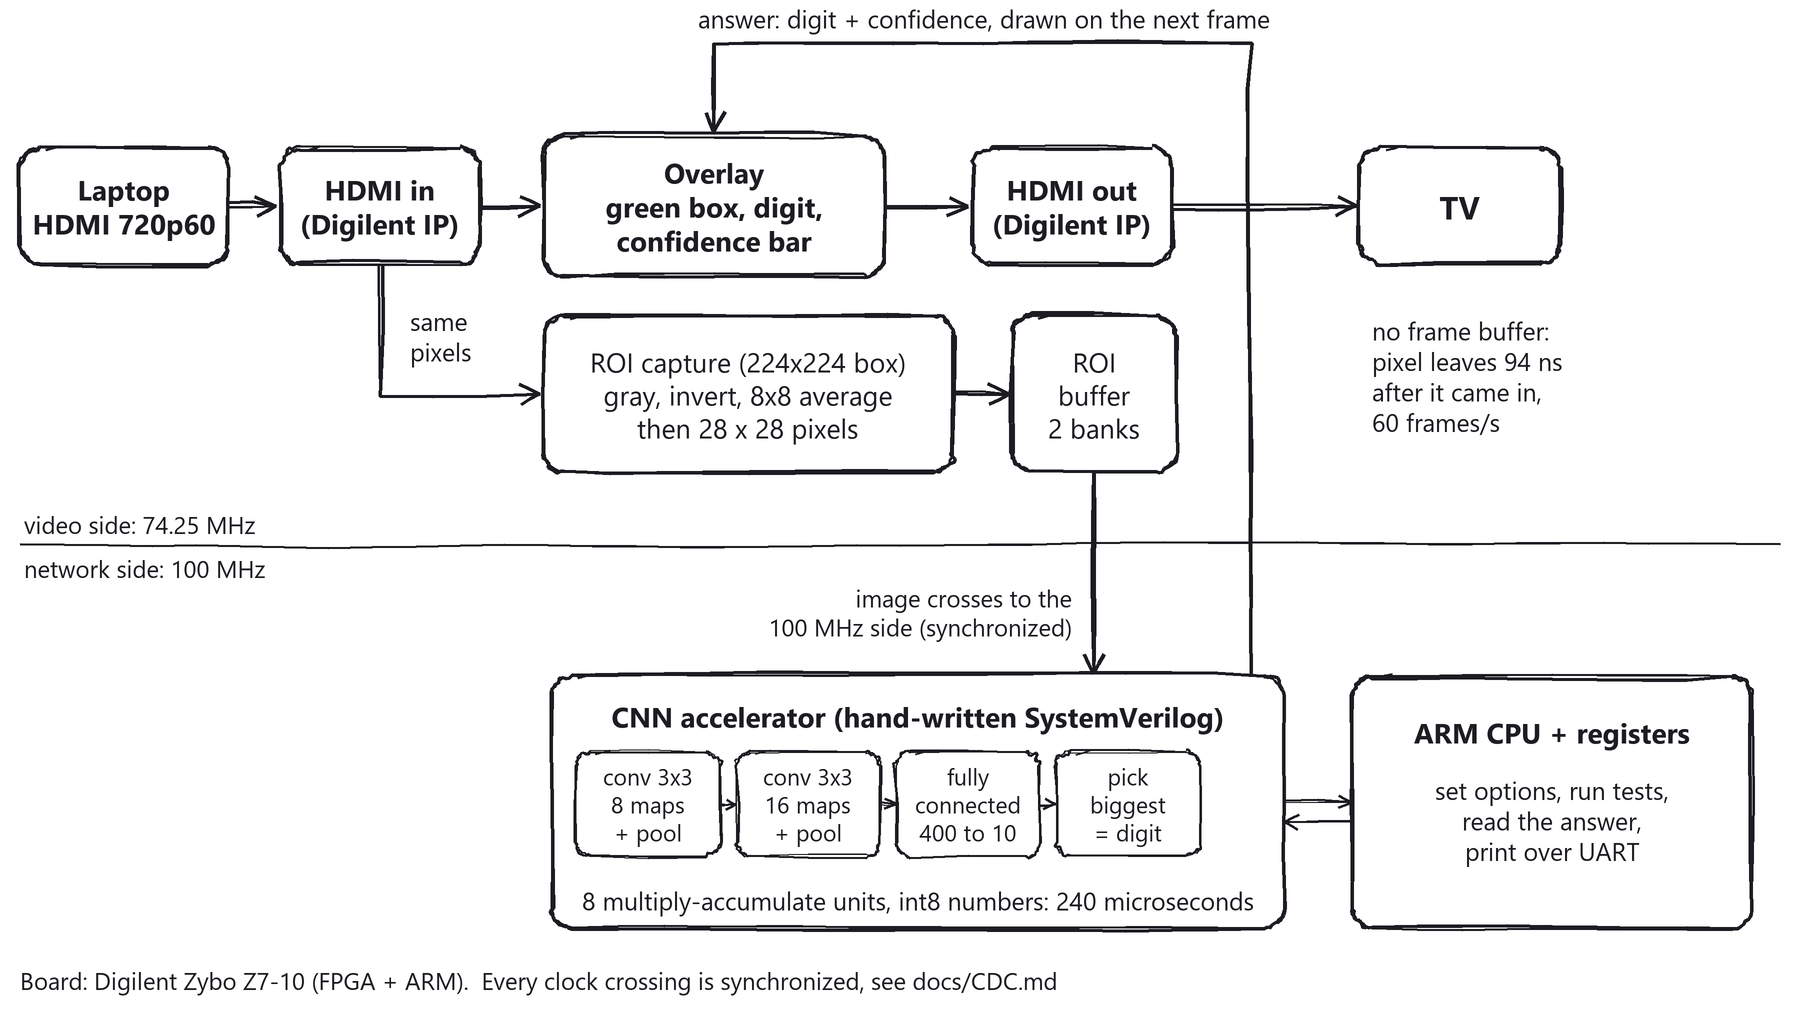
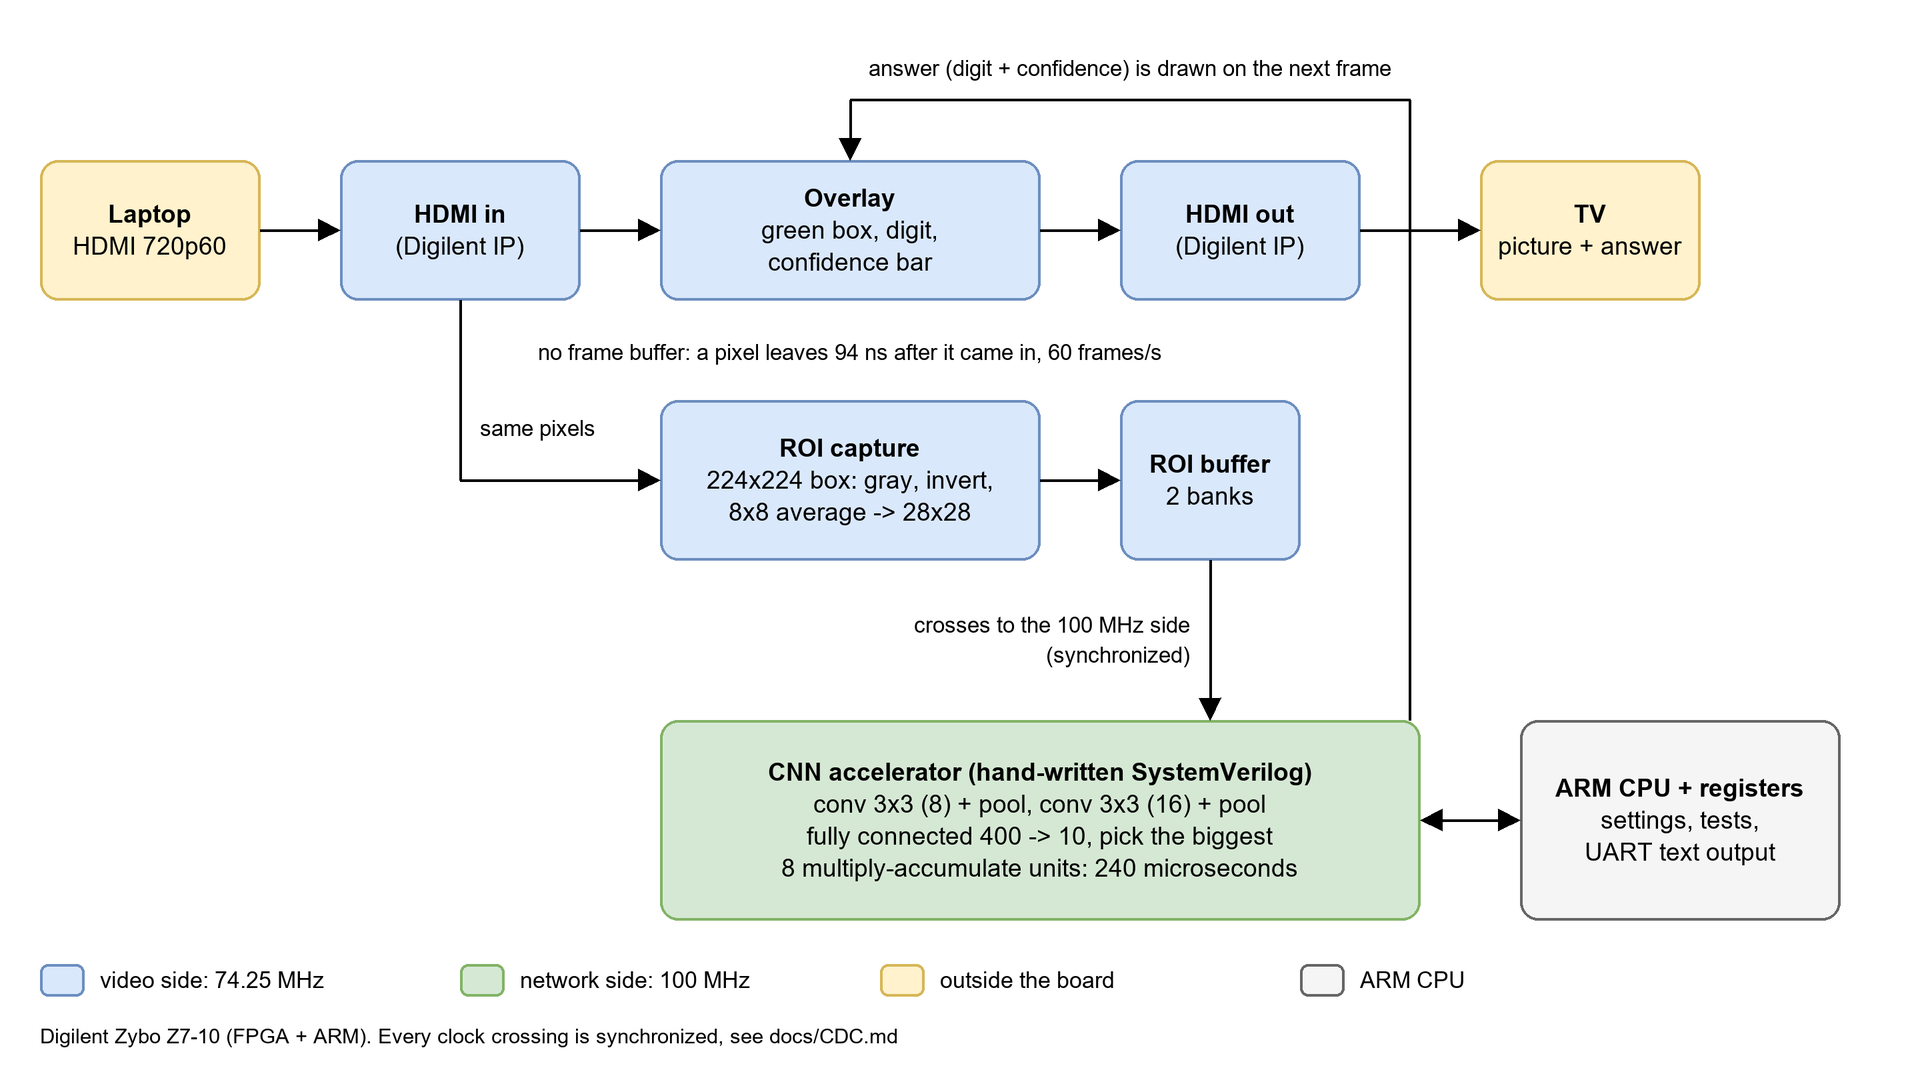
Architecture diagram in diagrams.net style (editable .drawio + PNG from the same shapes)

diff --git a/scripts/make_diagram.py b/scripts/make_diagram.py
@@ -1,179 +1,180 @@
 # =============================================================================
 # File   : make_diagram.py
 # Project: Real-Time Edge AI Video Processor on FPGA
-# Purpose: Draw docs/images/architecture.png in a hand-drawn pen style: slightly wobbly
-#          lines, retraced boxes, handwriting font, margin notes. Black ink on white.
-#          (A PNG, so it looks the same everywhere; an SVG would depend on the viewer's fonts.)
+# Purpose: Make the architecture diagram in the standard diagrams.net (draw.io) look:
+#            docs/images/architecture.drawio   editable file (open it at app.diagrams.net)
+#            docs/images/architecture.png      picture for the README, drawn from the SAME shapes
+#          Both come from one list of boxes and arrows below, so they always match.
 #
 # Usage  : .venv\Scripts\python.exe scripts/make_diagram.py
-# Needs  : Pillow, and the Windows font "Ink Free" (C:\Windows\Fonts\Inkfree.ttf)
+# Needs  : Pillow, Windows fonts Arial (arial.ttf, arialbd.ttf)
 # =============================================================================
-import math
+import html
 import os
-import random
 
 from PIL import Image, ImageDraw, ImageFont
 
 ROOT = os.path.abspath(os.path.join(os.path.dirname(os.path.abspath(__file__)), ".."))
-OUT = os.path.join(ROOT, "docs", "images", "architecture.png")
-FONT = r"C:\Windows\Fonts\segoeui.ttf"       # plain typed font; the LINES are hand-drawn, the TEXT is not
-FONT_BOLD = r"C:\Windows\Fonts\segoeuib.ttf"
+OUT_PNG = os.path.join(ROOT, "docs", "images", "architecture.png")
+OUT_XML = os.path.join(ROOT, "docs", "images", "architecture.drawio")
+FONT = r"C:\Windows\Fonts\arial.ttf"
+FONT_B = r"C:\Windows\Fonts\arialbd.ttf"
 
-W, H = 900, 506          # logical size
-S = 4                    # drawing scale (supersampling); final image is W*2 x H*2
-INK = (28, 28, 34, 255)
-random.seed(7)           # same drawing every run
+W, H = 960, 540
 
-img = Image.new("RGBA", (W * S, H * S), (255, 255, 255, 255))
-d = ImageDraw.Draw(img)
+# diagrams.net default colors: (fill, stroke)
+BLUE = ("#dae8fc", "#6c8ebf")      # video side, 74.25 MHz
+GREEN = ("#d5e8d4", "#82b366")     # network side, 100 MHz
+YELLOW = ("#fff2cc", "#d6b656")    # outside the board
+GRAY = ("#f5f5f5", "#666666")      # ARM CPU
 
+# id: (x, y, w, h, [(line, bold), ...], colors)
+NODES = {
+    "laptop": (20, 80, 110, 70, [("Laptop", True), ("HDMI 720p60", False)], YELLOW),
+    "hdmiin": (170, 80, 120, 70, [("HDMI in", True), ("(Digilent IP)", False)], BLUE),
+    "overlay": (330, 80, 190, 70, [("Overlay", True), ("green box, digit,", False), ("confidence bar", False)], BLUE),
+    "hdmiout": (560, 80, 120, 70, [("HDMI out", True), ("(Digilent IP)", False)], BLUE),
+    "tv": (740, 80, 110, 70, [("TV", True), ("picture + answer", False)], YELLOW),
+    "roi": (330, 200, 190, 80, [("ROI capture", True), ("224x224 box: gray, invert,", False), ("8x8 average -> 28x28", False)], BLUE),
+    "buf": (560, 200, 90, 80, [("ROI buffer", True), ("2 banks", False)], BLUE),
+    "cnn": (330, 360, 380, 100, [("CNN accelerator (hand-written SystemVerilog)", True),
+                                 ("conv 3x3 (8) + pool, conv 3x3 (16) + pool", False),
+                                 ("fully connected 400 -> 10, pick the biggest", False),
+                                 ("8 multiply-accumulate units: 240 microseconds", False)], GREEN),
+    "arm": (760, 360, 160, 100, [("ARM CPU + registers", True), ("settings, tests,", False), ("UART text output", False)], GRAY),
+}
 
-def font(size, bold=False):
-    return ImageFont.truetype(FONT_BOLD if bold else FONT, int(size * S))
+# edges: id, source, target, exit (x, y), entry (x, y), waypoints, both_ends
+EDGES = [
+    ("e1", "laptop", "hdmiin", (1, 0.5), (0, 0.5), [], False),
+    ("e2", "hdmiin", "overlay", (1, 0.5), (0, 0.5), [], False),
+    ("e3", "overlay", "hdmiout", (1, 0.5), (0, 0.5), [], False),
+    ("e4", "hdmiout", "tv", (1, 0.5), (0, 0.5), [], False),
+    ("e5", "hdmiin", "roi", (0.5, 1), (0, 0.5), [(230, 240)], False),
+    ("e6", "roi", "buf", (1, 0.5), (0, 0.5), [], False),
+    ("e7", "buf", "cnn", (0.5, 1), (0.724, 0), [], False),
+    ("e8", "cnn", "arm", (1, 0.5), (0, 0.5), [], True),
+    ("e9", "cnn", "overlay", (0.987, 0), (0.5, 0), [(705, 50), (425, 50)], False),
+]
 
+# free text: id, x, y, text lines, anchor ("l" left, "c" centre, "r" right of x)
+LABELS = [
+    ("t1", 240, 214, ["same pixels"], "l"),
+    ("t2", 595, 320, ["crosses to the 100 MHz side", "(synchronized)"], "r"),
+    ("t3", 565, 34, ["answer (digit + confidence) is drawn on the next frame"], "c"),
+    ("t4", 425, 176, ["no frame buffer: a pixel leaves 94 ns after it came in, 60 frames/s"], "c"),
+    ("t5", 20, 518, ["Digilent Zybo Z7-10 (FPGA + ARM). Every clock crossing is synchronized, see docs/CDC.md"], "l"),
+]
 
-def wobble_path(pts, amp=1.3, step=22):
-    """Subdivide a polyline and push the points sideways a little, like a hand-drawn line."""
-    out = []
-    for (x0, y0), (x1, y1) in zip(pts[:-1], pts[1:]):
-        length = math.hypot(x1 - x0, y1 - y0)
-        n = max(2, int(length / step))
-        nx, ny = (-(y1 - y0) / (length or 1), (x1 - x0) / (length or 1))
-        drift = random.uniform(-amp, amp)
-        for i in range(n):
-            t = i / n
-            drift += random.uniform(-amp, amp) * 0.55
-            drift = max(-2.2 * amp, min(2.2 * amp, drift))
-            out.append((x0 + (x1 - x0) * t + nx * drift, y0 + (y1 - y0) * t + ny * drift))
-    out.append(pts[-1])
-    return out
-
-
-def stroke(pts, width=1.7, amp=1.3, retrace=True):
-    for k in range(2 if retrace else 1):
-        path = wobble_path(pts, amp=amp * (1 if k == 0 else 0.8))
-        d.line([(x * S, y * S) for x, y in path], fill=INK, width=int(width * S * (1 if k == 0 else 0.7)), joint="curve")
-
-
-def rrect_points(x, y, w, h, r):
-    """Corner points of a rounded rectangle as a closed path (arcs as short segments)."""
-    pts = []
-    for cx, cy, a0 in ((x + w - r, y + r, -90), (x + w - r, y + h - r, 0), (x + r, y + h - r, 90), (x + r, y + r, 180)):
-        for i in range(0, 91, 18):
-            a = math.radians(a0 + i)
-            pts.append((cx + r * math.cos(a), cy + r * math.sin(a)))
-    pts.append(pts[0])
-    return pts
-
-
-def box(x, y, w, h, r=10, width=1.8, dashed=False):
-    pts = rrect_points(x, y, w, h, r)
-    if dashed:
-        # walk along the outline: draw 11 px, skip 7 px; each dash is a short wobbly stroke
-        dash, gap = 11.0, 7.0
-        pos, drawing = 0.0, True
-        for (x0, y0), (x1, y1) in zip(pts[:-1], pts[1:]):
-            seg = math.hypot(x1 - x0, y1 - y0)
-            if seg == 0:
-                continue
-            done = 0.0
-            while done < seg:
-                limit = dash if drawing else gap
-                take = min(limit - pos, seg - done)
-                a = (x0 + (x1 - x0) * done / seg, y0 + (y1 - y0) * done / seg)
-                b = (x0 + (x1 - x0) * (done + take) / seg, y0 + (y1 - y0) * (done + take) / seg)
-                if drawing:
-                    stroke([a, b], width=width * 0.8, amp=0.5, retrace=False)
-                done += take
-                pos += take
-                if pos >= limit - 1e-9:
-                    drawing, pos = (not drawing), 0.0
-    else:
-        stroke(pts, width=width, amp=1.0)
-        # pen overshoot at the first corner, like a box closed by hand
-        stroke([(x + r + 3, y + 1.2), (x + r + 10, y - 0.8)], width=width * 0.8, amp=0.3, retrace=False)
+LEGEND = [(BLUE, "video side: 74.25 MHz"), (GREEN, "network side: 100 MHz"),
+          (YELLOW, "outside the board"), (GRAY, "ARM CPU")]
+LEG_X = (20, 230, 440, 650)
+LEG_Y = 482
 
 
-def arrow(pts, width=1.8, head=11):
-    stroke(pts, width=width, amp=1.1)
-    (x0, y0), (x1, y1) = pts[-2], pts[-1]
-    a = math.atan2(y1 - y0, x1 - x0)
-    for sgn in (-1, 1):
-        ang = a + math.pi + sgn * math.radians(26 + random.uniform(-4, 4))
-        ln = head + random.uniform(-1.2, 1.2)
-        stroke([(x1, y1), (x1 + ln * math.cos(ang), y1 + ln * math.sin(ang))], width=width, amp=0.25, retrace=False)
+def edge_points(src, dst, ex, en, via):
+    sx, sy, sw, sh = NODES[src][:4]
+    dx, dy, dw, dh = NODES[dst][:4]
+    p0 = (sx + sw * ex[0], sy + sh * ex[1])
+    p1 = (dx + dw * en[0], dy + dh * en[1])
+    return [p0, *via, p1]
 
 
-def text(x, y, s, size=15, anchor="mm", bold=False):
-    f = font(size, bold)
-    lines = s.split("\n")
-    lh = size * 1.22
-    y0 = y - (len(lines) - 1) * lh / 2
-    for i, line in enumerate(lines):
-        d.text((x * S, (y0 + i * lh) * S), line, font=f, fill=INK, anchor=anchor)
+# ----------------------------------------------------------------------------- PNG
+def make_png():
+    S = 3
+    img = Image.new("RGB", (W * S, H * S), "white")
+    d = ImageDraw.Draw(img)
+
+    def f(size, bold=False):
+        return ImageFont.truetype(FONT_B if bold else FONT, int(size * S))
+
+    def put(x, y, s, size, bold, anchor):
+        d.text((x * S, y * S), s, font=f(size, bold), fill="black", anchor=anchor)
+
+    for _, (x, y, w, h, lines, (fill, stroke)) in NODES.items():
+        d.rounded_rectangle([x * S, y * S, (x + w) * S, (y + h) * S], radius=9 * S, fill=fill, outline=stroke, width=int(1.6 * S))
+        lh = 16
+        y0 = y + h / 2 - (len(lines) - 1) * lh / 2
+        for i, (line, bold) in enumerate(lines):
+            put(x + w / 2, y0 + i * lh, line, 12.5, bold, "mm")
+
+    def arrowhead(p, q):
+        import math
+        a = math.atan2(q[1] - p[1], q[0] - p[0])
+        L, Wd = 11, 5.5
+        base = (q[0] - L * math.cos(a), q[1] - L * math.sin(a))
+        pts = [q, (base[0] + Wd * math.sin(a), base[1] - Wd * math.cos(a)), (base[0] - Wd * math.sin(a), base[1] + Wd * math.cos(a))]
+        d.polygon([(px * S, py * S) for px, py in pts], fill="black")
+        return base
+
+    for _, src, dst, ex, en, via, both in EDGES:
+        pts = edge_points(src, dst, ex, en, via)
+        line = list(pts)
+        line[-1] = arrowhead(pts[-2], pts[-1])
+        if both:
+            line[0] = arrowhead(pts[1], pts[0])
+        d.line([(px * S, py * S) for px, py in line], fill="black", width=int(1.6 * S), joint="curve")
+
+    for _, x, y, lines, anchor in LABELS:
+        a = {"l": "lm", "c": "mm", "r": "rm"}[anchor]
+        small = y > 500
+        for i, line in enumerate(lines):
+            put(x, y + i * 15 - (len(lines) - 1) * 7.5, line, 11 if not small else 10.5, False, a)
+
+    for (fill, stroke), x, (_, label) in zip([c for c, _ in LEGEND], LEG_X, LEGEND):
+        d.rounded_rectangle([x * S, LEG_Y * S, (x + 22) * S, (LEG_Y + 16) * S], radius=4 * S, fill=fill, outline=stroke, width=int(1.4 * S))
+        put(x + 30, LEG_Y + 8, label, 11.5, False, "lm")
+
+    img = img.resize((W * 2, H * 2), Image.LANCZOS)
+    img.save(OUT_PNG, optimize=True)
+    print("saved", OUT_PNG, img.size)
 
 
-# ------------------------------------------------------------------ video side (top)
+# ----------------------------------------------------------------------------- draw.io XML
+def make_xml():
+    cells = ['<mxCell id="0"/>', '<mxCell id="1" parent="0"/>']
 
-box(10, 74, 104, 58)
-text(62, 103, "Laptop\nHDMI 720p60", size=14, bold=True)
-box(140, 74, 100, 58)
-text(190, 103, "HDMI in\n(Digilent IP)", size=14, bold=True)
-box(272, 68, 170, 70)
-text(357, 103, "Overlay\ngreen box, digit,\nconfidence bar", size=14, bold=True)
-box(486, 74, 100, 58)
-text(536, 103, "HDMI out\n(Digilent IP)", size=14, bold=True)
-box(680, 74, 100, 58)
-text(730, 103, "TV", size=16, bold=True)
+    def label_html(lines):
+        parts = [f"<b>{html.escape(t)}</b>" if bold else html.escape(t) for t, bold in lines]
+        return html.escape("<br>".join(parts), quote=True)
 
-arrow([(114, 103), (138, 103)])
-arrow([(240, 103), (270, 103)])
-arrow([(442, 103), (484, 103)])
-arrow([(586, 103), (678, 103)])
+    for nid, (x, y, w, h, lines, (fill, stroke)) in NODES.items():
+        style = f"rounded=1;whiteSpace=wrap;html=1;arcSize=12;fillColor={fill};strokeColor={stroke};fontSize=12;"
+        cells.append(f'<mxCell id="{nid}" value="{label_html(lines)}" style="{style}" vertex="1" parent="1">'
+                     f'<mxGeometry x="{x}" y="{y}" width="{w}" height="{h}" as="geometry"/></mxCell>')
 
-# ROI capture and buffer
-box(272, 158, 205, 78)
-text(374, 197, "ROI capture (224x224 box)\ngray, invert, 8x8 average\nthen 28 x 28 pixels", size=13.5, bold=False)
-box(506, 158, 82, 78)
-text(547, 197, "ROI\nbuffer\n2 banks", size=13.5)
-arrow([(190, 132), (190, 197), (270, 197)])
-text(205, 168, "same\npixels", size=12.5, anchor="lm")
-arrow([(477, 197), (504, 197)])
+    for eid, src, dst, ex, en, via, both in EDGES:
+        style = (f"edgeStyle=orthogonalEdgeStyle;rounded=0;html=1;endArrow=classic;startArrow={'classic' if both else 'none'};"
+                 f"exitX={ex[0]};exitY={ex[1]};entryX={en[0]};entryY={en[1]};strokeColor=#000000;")
+        pts = "".join(f'<mxPoint x="{px}" y="{py}"/>' for px, py in via)
+        arr = f'<Array as="points">{pts}</Array>' if via else ""
+        cells.append(f'<mxCell id="{eid}" style="{style}" edge="1" parent="1" source="{src}" target="{dst}">'
+                     f'<mxGeometry relative="1" as="geometry">{arr}</mxGeometry></mxCell>')
 
-# ------------------------------------------------------------------ network side (bottom)
-# one plain hand-drawn line separates the two clock sides
-stroke([(10, 272), (890, 272)], width=1.4, amp=1.0, retrace=False)
-text(12, 262, "video side: 74.25 MHz", size=12, anchor="lm")
-text(12, 284, "network side: 100 MHz", size=12, anchor="lm")
+    for tid, x, y, lines, anchor in LABELS:
+        align = {"l": "left", "c": "center", "r": "right"}[anchor]
+        w = 330
+        x0 = {"l": x, "c": x - w / 2, "r": x - w}[anchor]
+        h = 15 * len(lines) + 6
+        txt = html.escape("<br>".join(html.escape(t) for t in lines), quote=True)
+        cells.append(f'<mxCell id="{tid}" value="{txt}" style="text;html=1;align={align};verticalAlign=middle;fontSize=11;" vertex="1" parent="1">'
+                     f'<mxGeometry x="{x0}" y="{y - h / 2}" width="{w}" height="{h}" as="geometry"/></mxCell>')
 
-box(276, 338, 366, 126)
-text(459, 358, "CNN accelerator (hand-written SystemVerilog)", size=14, bold=True)
-# the layers as small boxes
-for i, (lx, label) in enumerate(((288, "conv 3x3\n8 maps\n+ pool"), (368, "conv 3x3\n16 maps\n+ pool"), (448, "fully\nconnected\n400 to 10"), (528, "pick\nbiggest\n= digit"))):
-    box(lx, 376, 72, 52, r=7, width=1.4)
-    text(lx + 36, 402, label, size=11.5)
-    if i < 3:
-        arrow([(lx + 72, 402), (lx + 80, 402)], width=1.3, head=6)
-text(459, 450, "8 multiply-accumulate units, int8 numbers: 240 microseconds", size=12.5)
+    for i, ((fill, stroke), x, (_, label)) in enumerate(zip([c for c, _ in LEGEND], LEG_X, LEGEND)):
+        cells.append(f'<mxCell id="lg{i}" value="" style="rounded=1;whiteSpace=wrap;html=1;fillColor={fill};strokeColor={stroke};" vertex="1" parent="1">'
+                     f'<mxGeometry x="{x}" y="{LEG_Y}" width="22" height="16" as="geometry"/></mxCell>')
+        cells.append(f'<mxCell id="lt{i}" value="{html.escape(label)}" style="text;html=1;align=left;verticalAlign=middle;fontSize=11;" vertex="1" parent="1">'
+                     f'<mxGeometry x="{x + 30}" y="{LEG_Y - 2}" width="180" height="20" as="geometry"/></mxCell>')
 
-box(676, 338, 200, 126)
-text(776, 366, "ARM CPU + registers", size=14, bold=True)
-text(776, 410, "set options, run tests,\nread the answer,\nprint over UART", size=12.5)
-arrow([(642, 401), (676, 401)], width=1.4, head=8)
-arrow([(676, 411), (642, 411)], width=1.4, head=8)
+    xml = ('<mxfile host="app.diagrams.net"><diagram name="Architecture" id="arch">'
+           f'<mxGraphModel dx="{W}" dy="{H}" grid="1" gridSize="10" guides="1" tooltips="1" connect="1" arrows="1" fold="1" page="1" '
+           f'pageScale="1" pageWidth="{W}" pageHeight="{H}" math="0" shadow="0"><root>' + "".join(cells) + "</root></mxGraphModel></diagram></mxfile>")
+    with open(OUT_XML, "w", encoding="utf-8") as fh:
+        fh.write(xml)
+    print("saved", OUT_XML)
 
-# ------------------------------------------------------------------ crossing arrows
-arrow([(547, 236), (547, 337)])
-text(536, 306, "image crosses to the\n100 MHz side (synchronized)", size=12, anchor="rm")
 
-# answer returns to the overlay: up on the right, along the top, down into the overlay
-arrow([(626, 338), (626, 22), (357, 22), (357, 66)])
-text(492, 9,"answer: digit + confidence, drawn on the next frame", size=12.5)
-
-# ------------------------------------------------------------------ margin notes
-text(686, 188, "no frame buffer:\npixel leaves 94 ns\nafter it came in,\n60 frames/s", size=12.5, anchor="lm")
-text(10, 490, "Board: Digilent Zybo Z7-10 (FPGA + ARM).  Every clock crossing is synchronized, see docs/CDC.md", size=12, anchor="lm")
-
-final = img.convert("RGB").resize((W * 2, H * 2), Image.LANCZOS)
-final.save(OUT, optimize=True)
-print("saved", OUT, final.size)
+if __name__ == "__main__":
+    make_png()
+    make_xml()
